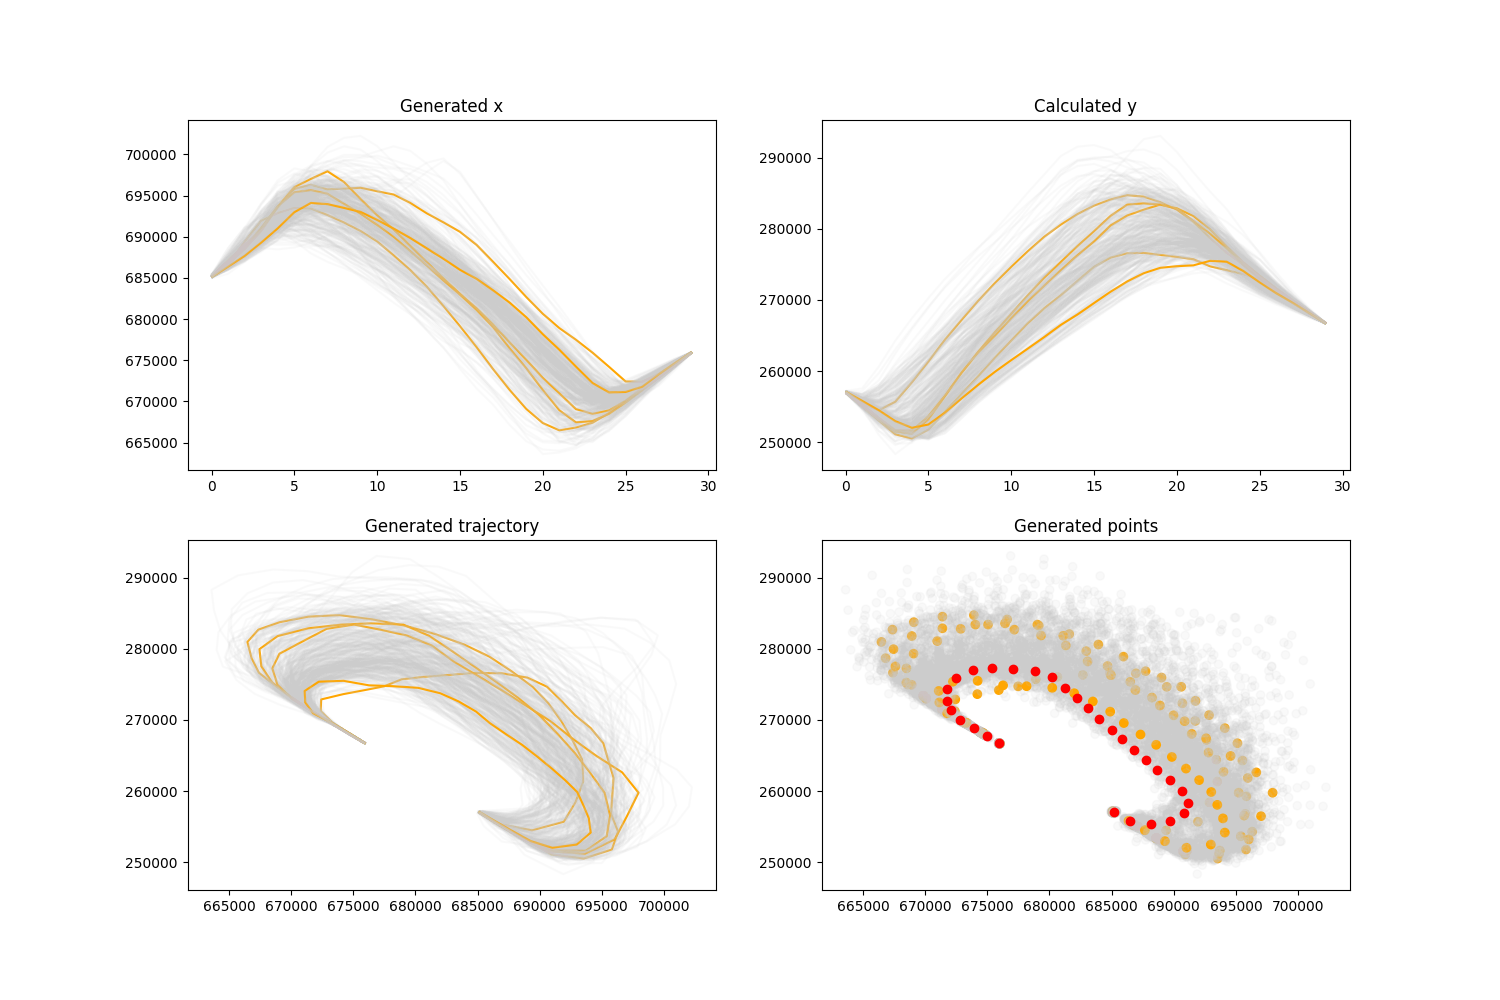
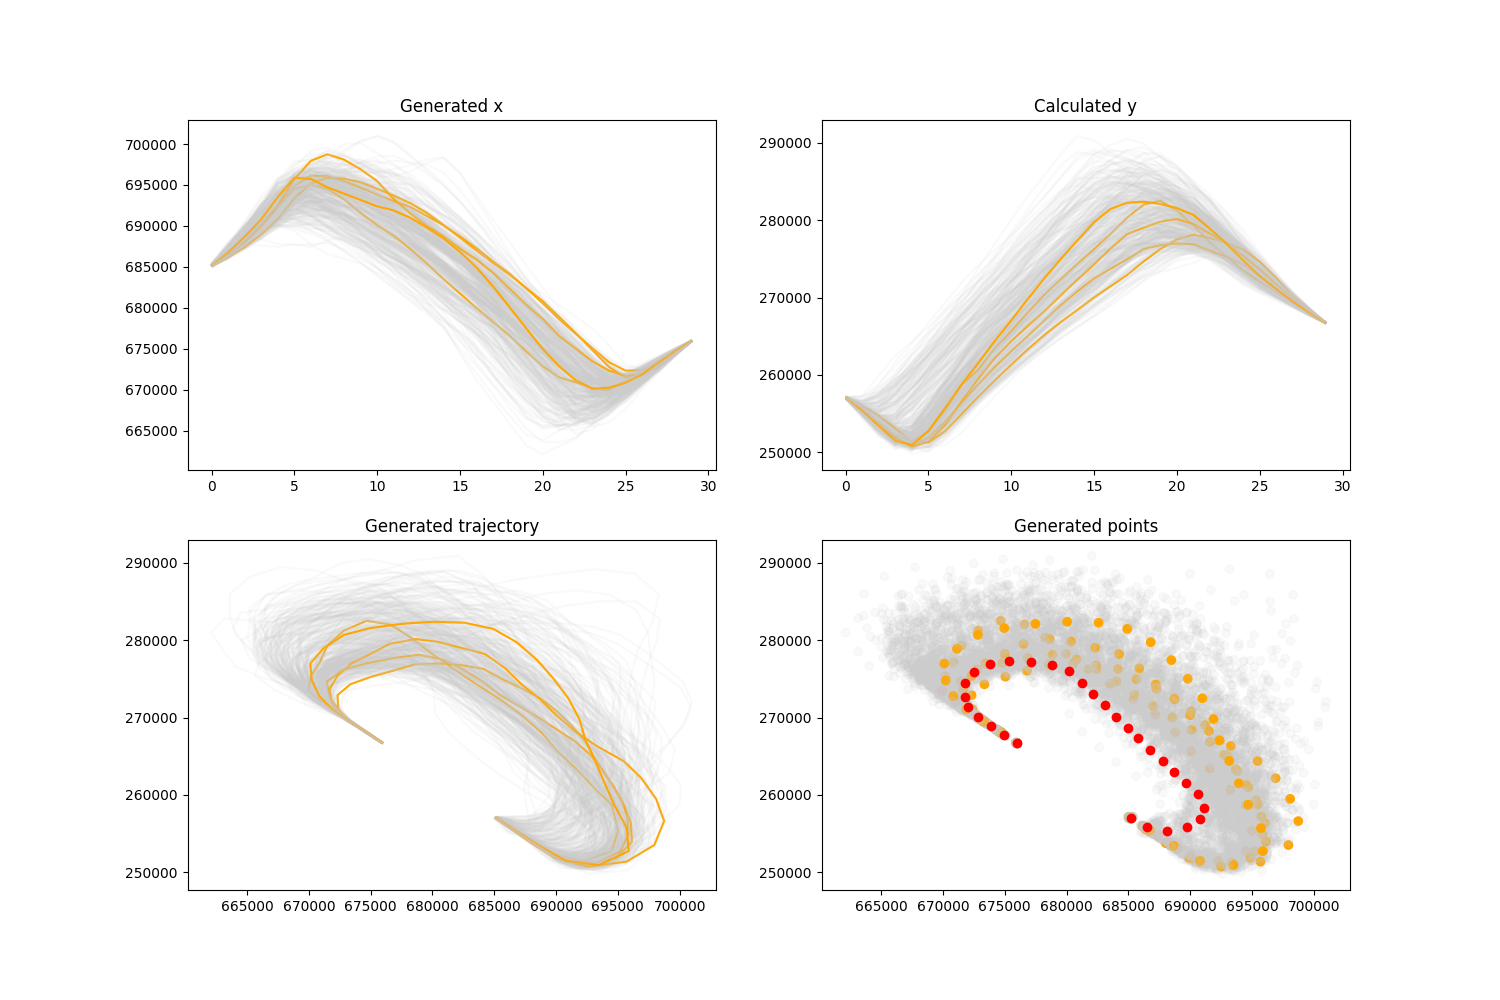
updates figures

diff --git a/Modules/plot_generation.py b/Modules/plot_generation.py
@@ -225,7 +225,7 @@ metrics = {}
 plot_raw_trajs(Real, "Real", sampled = True, n_display = display)
 x,y = reconstruct_trajs(Real)
 spline_x, spline_y = fit_spline(Real, "Real", sampled = True, n_display = display)
-plot_turns(x, y, "Real", i, threshold = threshold)
+plot_turns(spline_x, spline_y, "Real", i, threshold = threshold)
 metrics["Real"] = [mean_turns(spline_x, spline_y, threshold = threshold), 0, 0, 0]
 print("Real :", metrics["Real"][0], "\n")
 
@@ -233,7 +233,7 @@ print("Real :", metrics["Real"][0], "\n")
 plot_raw_trajs(Vines_samp, "Vines_samp", sampled = True, n_display = display)
 x,y = reconstruct_trajs(Vines_samp)
 spline_x, spline_y = fit_spline(Vines_samp, "Vines_samp", sampled = True, n_display = display)
-plot_turns(x, y, "Vines_samp", i, threshold = threshold)
+plot_turns(spline_x, spline_y, "Vines_samp", i, threshold = threshold)
 metrics["Vines_samp"] = [mean_turns(spline_x, spline_y, threshold = threshold), np.mean(mahalanobis(x=Vines_samp, data=Real)), cdist(np.array(Vines_samp), np.array(Real), "mahalanobis").mean(), energy_distance(np.array(Vines_samp), np.array(Real))]
 print("Vines and Samp :",metrics["Vines_samp"][0])
 print("Mahalanobis distance to mean:",metrics["Vines_samp"][1])
@@ -243,7 +243,7 @@ print("Energy distance : ", metrics["Vines_samp"][3], "\n")
 plot_raw_trajs(Gm_samp, "Gm_samp", sampled = True, n_display = display)
 x,y = reconstruct_trajs(Gm_samp)
 spline_x, spline_y = fit_spline(Gm_samp, "Gm_samp", sampled = True, n_display = display)
-plot_turns(x, y, "Gm_samp", i, threshold = threshold)
+plot_turns(spline_x, spline_y, "Gm_samp", i, threshold = threshold)
 metrics["Gm_samp"] = [mean_turns(spline_x, spline_y, threshold = threshold), np.mean(mahalanobis(x=Gm_samp, data=Real)), cdist(np.array(Gm_samp), np.array(Real), "mahalanobis").mean(), energy_distance(np.array(Gm_samp), np.array(Real))]
 print("GM and Samp :",  metrics["Gm_samp"][0])
 print("Mahalanobis distance to mean :", metrics["Gm_samp"][1])
@@ -253,7 +253,7 @@ print("Energy distance : ", metrics["Gm_samp"][3], "\n")
 plot_raw_trajs(Mvn_samp, "Mvn_samp", sampled = True, n_display = display)
 x,y = reconstruct_trajs(Mvn_samp)
 spline_x, spline_y = fit_spline(Mvn_samp, "Mvn_samp", sampled = True, n_display = display)
-plot_turns(x, y, "Mvn_samp", i, threshold = threshold)
+plot_turns(spline_x, spline_y, "Mvn_samp", i, threshold = threshold)
 metrics["Mvn_samp"] = [ mean_turns(spline_x, spline_y, threshold = threshold), np.mean(mahalanobis(x=Mvn_samp, data=Real)), cdist(np.array(Mvn_samp), np.array(Real), "mahalanobis").mean(), energy_distance(np.array(Mvn_samp), np.array(Real))]
 print("MVN and Samp :", metrics["Mvn_samp"][0])
 print("Mahalanobis distance to mean :", metrics["Mvn_samp"][1])

diff --git a/Modules/gen_performances.py b/Modules/gen_performances.py
@@ -63,7 +63,7 @@ def plot_metrics(metrics, names = ["Energy", "Mahala_to_mean", "Mean_mahala"] ):
     r1 = np.arange(len(names))
 
     #colors
-    col = ["papayawhip", "moccasin", "orange", "lightgreen", "darkseagreen", "forestgreen"]
+    col = ["lightsalmon", "coral", "lightgreen", "darkseagreen", "lightskyblue", "steelblue"]
 
     # Make the plot
     for i, key in enumerate(norm) : 
